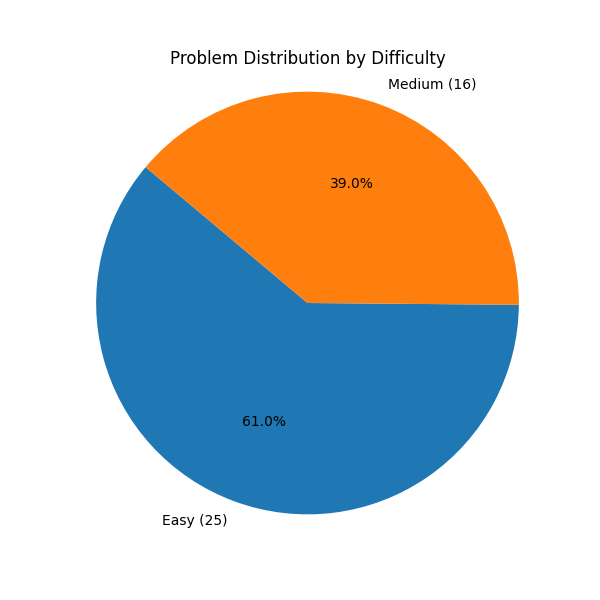
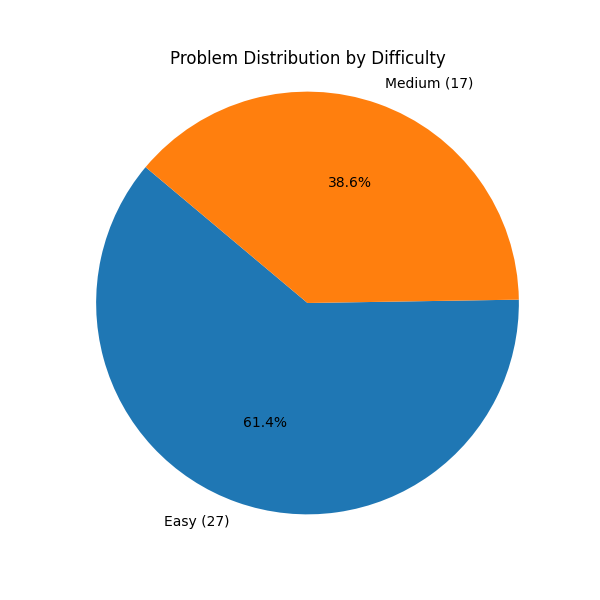
two-new-problems

diff --git a/easy/219-contains-duplicate-ii/solution/Solution.java b/easy/219-contains-duplicate-ii/solution/Solution.java
@@ -1,0 +1,25 @@
+import java.util.*;
+class Solution {
+    public boolean containsNearbyDuplicate(int[] nums, int k) {
+        // Bruteforce:
+        // for(int L = 0; L < nums.length; L++){
+        //     for(int R = L+1; R < Math.min(nums.length, L+k+1); R++){
+        //         if(nums[L] == nums[R]) return true;
+        //     }
+        // }
+        // return false;
+
+        int L = 0;
+        HashSet<Integer> window = new HashSet<>();
+        
+        for(int R = 0; R < nums.length; R++){
+            if( (R-L+1) > k + 1){
+                window.remove(nums[L]);
+                L++;
+            }
+            if(window.contains(nums[R])) return true;
+            window.add(nums[R]);
+        }
+        return false;
+    }
+}

diff --git a/medium/1343-number-of-sub-arrays-of-size-k-and-average-greater-than-or-equal-to-threshold/solution/Solution.java b/medium/1343-number-of-sub-arrays-of-size-k-and-average-greater-than-or-equal-to-threshold/solution/Solution.java
@@ -1,0 +1,17 @@
+class Solution {
+    public int numOfSubarrays(int[] arr, int k, int threshold) {
+        int L = 0;
+        int count = 0;
+        double rollingTotal = 0;
+
+        for(int R = 0; R < arr.length; R++){
+            rollingTotal += arr[R]; 
+            if((R-L+1) >= k){
+                if(rollingTotal/k >= threshold) count++;
+                rollingTotal -= arr[L];
+                L++;
+            }
+        }
+        return count;
+    }
+}

diff --git a/easy/219-contains-duplicate-ii/solution/solution.py b/easy/219-contains-duplicate-ii/solution/solution.py
@@ -1,0 +1,3 @@
+class Solution:
+    def method_name(self, *args):
+        pass

diff --git a/medium/1343-number-of-sub-arrays-of-size-k-and-average-greater-than-or-equal-to-threshold/README.md b/medium/1343-number-of-sub-arrays-of-size-k-and-average-greater-than-or-equal-to-threshold/README.md
@@ -1,0 +1,81 @@
+# 1343. Number of Sub-arrays of Size K and Average Greater than or Equal to Threshold
+
+**Difficulty:** Medium  
+**Link:** [https://leetcode.com/problems/number-of-sub-arrays-of-size-k-and-average-greater-than-or-equal-to-threshold/](https://leetcode.com/problems/number-of-sub-arrays-of-size-k-and-average-greater-than-or-equal-to-threshold/)
+
+## Problem Description
+
+Given an array of integers 
+arr
+ and two integers 
+k
+ and 
+threshold
+, return 
+the number of sub-arrays of size 
+k
+ and average greater than or equal to 
+threshold
+.
+
+
+ 
+
+
+Example 1:
+
+
+
+
+Input:
+ arr = [2,2,2,2,5,5,5,8], k = 3, threshold = 4
+
+Output:
+ 3
+
+Explanation:
+ Sub-arrays [2,5,5],[5,5,5] and [5,5,8] have averages 4, 5 and 6 respectively. All other sub-arrays of size 3 have averages less than 4 (the threshold).
+
+
+
+Example 2:
+
+
+
+
+Input:
+ arr = [11,13,17,23,29,31,7,5,2,3], k = 3, threshold = 5
+
+Output:
+ 6
+
+Explanation:
+ The first 6 sub-arrays of size 3 have averages greater than 5. Note that averages are not integers.
+
+
+
+ 
+
+
+Constraints:
+
+
+
+
+1 <= arr.length <= 10
+5
+
+
+1 <= arr[i] <= 10
+4
+
+
+1 <= k <= arr.length
+
+
+0 <= threshold <= 10
+4
+
+
+
+

diff --git a/easy/219-contains-duplicate-ii/README.md b/easy/219-contains-duplicate-ii/README.md
@@ -1,0 +1,93 @@
+# 219. Contains Duplicate II
+
+**Difficulty:** Easy  
+**Link:** [https://leetcode.com/problems/contains-duplicate-ii/](https://leetcode.com/problems/contains-duplicate-ii/)
+
+## Problem Description
+
+Given an integer array 
+nums
+ and an integer 
+k
+, return 
+true
+ 
+if there are two 
+distinct indices
+ 
+i
+ and 
+j
+ in the array such that 
+nums[i] == nums[j]
+ and 
+abs(i - j) <= k
+.
+
+
+ 
+
+
+Example 1:
+
+
+
+
+Input:
+ nums = [1,2,3,1], k = 3
+
+Output:
+ true
+
+
+
+Example 2:
+
+
+
+
+Input:
+ nums = [1,0,1,1], k = 1
+
+Output:
+ true
+
+
+
+Example 3:
+
+
+
+
+Input:
+ nums = [1,2,3,1,2,3], k = 2
+
+Output:
+ false
+
+
+
+ 
+
+
+Constraints:
+
+
+
+
+1 <= nums.length <= 10
+5
+
+
+-10
+9
+ <= nums[i] <= 10
+9
+
+
+0 <= k <= 10
+5
+
+
+
+

diff --git a/README.md b/README.md
@@ -29,6 +29,8 @@ My solutions to LeetCode problems in Python and Java
 
 
 
+
+
 ## 📊 Problem Distribution
 ![By Difficulty and Language](assets/progress_difficulty_language.png)
 ![By Difficulty (Pie)](assets/pie_difficulty.png)
